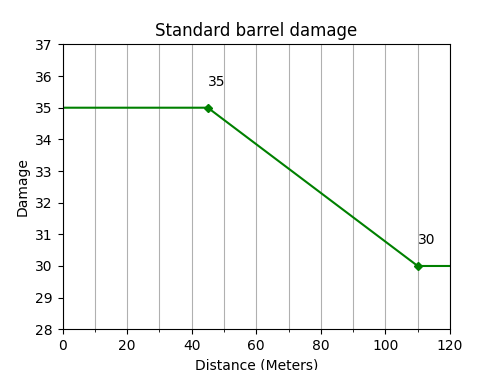
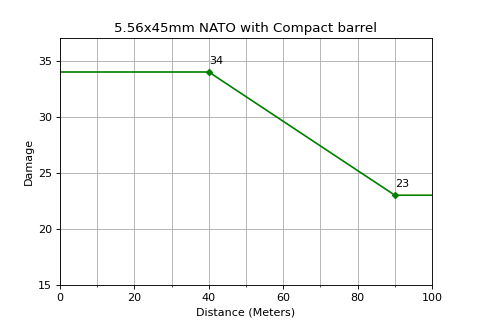
ttk calculator finished and working

diff --git a/main.py b/main.py
@@ -1,4 +1,5 @@
-import graph_maker
+from graph_maker import get_graph_figure
+from damage_calculator import calculate_damage
 from tkinter import *
 import json
 import gun
@@ -7,6 +8,10 @@ from functools import partial
 from matplotlib.backends.backend_tkagg import FigureCanvasTkAgg
 import matplotlib.pyplot as plt
 from PIL import Image,ImageTk
+import math
+
+current_ammo_config = []
+current_gun = None
 
 def load_data(filename:str, Class) -> list:
     list = []
@@ -27,7 +32,7 @@ def __launch_app():
 
     # Create object
     root = Tk()
-    root.geometry( "500x800" )
+    root.geometry( "500x700" )
     root.title('WW3 Stats Utility')
 
     selected_gun = StringVar(root)
@@ -36,43 +41,110 @@ def __launch_app():
     # Create a dropdown menu
     gun_options = [gun.fullname for gun in guns]
     dropdown_guns = OptionMenu(root, selected_gun, *gun_options)
-    dropdown_guns.pack()
+    dropdown_guns.config(width=20)
+    dropdown_guns.grid(row = 0, column = 0, columnspan = 4, rowspan = 1, padx = 150, pady = 5)
 
-    gun_title_label = Label(text = "", font=("Arial", 15))
+    gun_title_label = Label(text = "Select a gun", font=("Arial", 15))
     gun_realname_label = Label(text = "", font=("Arial", 8), fg="green")
-    gun_weight_label = Label(text = "", font=("Arial", 11))
-    gun_firerate_label = Label(text = "", font=("Arial", 11))
-    gun_caliber_label = Label(text = "", font=("Arial", 11))
+    gun_weight_label = Label(text = "Weight:", font=("Arial", 11), anchor="w" )
+    gun_firerate_label = Label(text = "Fire rate:", font=("Arial", 11), anchor="w")
+    gun_caliber_label = Label(text = "Caliber:", font=("Arial", 11), anchor="w")
 
-    gun_title_label.pack()
-    gun_realname_label.pack()
-    gun_weight_label.pack()
-    gun_firerate_label.pack()
-    gun_caliber_label.pack(pady=1)
+    gun_title_label.grid(row = 1, column = 0, columnspan = 4, rowspan = 1)
+    gun_realname_label.grid(row = 2, column = 0, columnspan = 4, rowspan = 1)
+    gun_weight_label.grid(row = 3, column = 0, columnspan = 2, rowspan = 1, sticky = W, padx = (100,0)) 
+    gun_firerate_label.grid(row = 4, column = 0, columnspan = 2, rowspan = 1, sticky = W, padx = (100,0))
+    gun_caliber_label.grid(row = 5, column = 0, columnspan = 2, rowspan = 1, sticky = W, padx = (100,0))
 
-    selected_barrel = StringVar(root)
-    selected_barrel.set("")
+    gun_weight_text = Label(text = "", font=("Arial", 11), anchor="e")
+    gun_firerate_text = Label(text = "", font=("Arial", 11), anchor="e")
+    gun_caliber_text = Label(text = "", font=("Arial", 11), anchor="e")
 
-    dropdown_barrels = OptionMenu(root, selected_barrel, [])
+    gun_weight_text.grid(row = 3, column = 2, columnspan = 2, rowspan = 1, sticky = E, padx = (0,100))
+    gun_firerate_text.grid(row = 4, column = 2, columnspan = 2, rowspan = 1, sticky = E, padx = (0,100))
+    gun_caliber_text.grid(row = 5, column = 2, columnspan = 2, rowspan = 1, sticky = E, padx = (0,100))
+
     fig_canvas = Label()
     
+
+    #TTK Calculator elements init
+    label_ttk_title = Label(text = "TTK Calculator (Choose a gun and barrel)", font=("Arial", 15), anchor="w")
+    label_ttk_title.grid(row = 8, column = 0, columnspan = 4, rowspan = 1, pady = 3)
+
+    # TTK inputs init
+    Label(text = "Distance:", font=("Arial", 11), anchor="w").grid(row = 9, column = 0, columnspan = 1, rowspan = 1, sticky = E, padx = (120,0))
+    Label(text = "Region:", font=("Arial", 11), anchor="w").grid(row = 9, column = 2, columnspan = 1, rowspan = 1, sticky = W, padx = (0,0))
+
+    distance_input = Entry(root)
+    distance_input.config(width=5)
+    distance_input.grid(row = 9, column = 1, columnspan = 1, rowspan = 1,padx = (5,50))
+
+    selected_region = StringVar(root)
+    selected_region.set("Select region")
+
+    region_dropdown = OptionMenu(root, selected_region, *["Head","Torso/Arms","Legs","Feet"])
+    region_dropdown.config(width=10)
+    region_dropdown.grid(row = 9, column = 3, columnspan = 1, rowspan = 1,padx = (5,50))
+
+    # TTK texts init
+    Label(text = "Damage:", font=("Arial", 11), anchor="w").grid(row = 11, column = 0, columnspan = 1, rowspan = 1, sticky = W, padx = (80,0))
+    Label(text = "DPS:", font=("Arial", 11), anchor="w").grid(row = 11, column = 2, columnspan = 1, rowspan = 1, sticky = W, padx = (0,0))
+    Label(text = "STK:", font=("Arial", 11), anchor="w").grid(row = 12, column = 0, columnspan = 1, rowspan = 1, sticky = W, padx = (80,0))
+    Label(text = "TTK:", font=("Arial", 11), anchor="w").grid(row = 12, column = 2, columnspan = 1, rowspan = 1, sticky = W, padx = (0,0))
+
+    Label(text = "Licensed under GNU General Public License v3.0", font=("Arial italic", 9), anchor="w").grid(row = 13, column = 0, columnspan = 4, rowspan = 1, pady = 5)
+
+    text_ttk_dmg = Label(text = "", font=("Arial", 11), anchor="e")
+    text_ttk_dmg.grid(row = 11, column = 1, columnspan = 1, rowspan = 1, sticky = E, padx = (0,10))
+
+    text_ttk_dps = Label(text = "", font=("Arial", 11), anchor="e")
+    text_ttk_dps.grid(row = 11, column = 3, columnspan = 1, rowspan = 1, sticky = E, padx = (0,80))
+
+    text_ttk_stk = Label(text = "", font=("Arial", 11), anchor="e")
+    text_ttk_stk.grid(row = 12, column = 1, columnspan = 1, rowspan = 1, sticky = E, padx = (0,10))
+
+    text_ttk_ttk = Label(text = "", font=("Arial", 11), anchor="e")
+    text_ttk_ttk.grid(row = 12, column = 3, columnspan = 1, rowspan = 1, sticky = E, padx = (0,80))
+
     
+        
 
     def show_gun_info(gun_selection, *args):
-        # Retrieve the data for the selected table
-        fig_canvas.pack_forget()
+        label_ttk_title.config(text= "TTK Calculator (Choose a barrel)") 
+        text_ttk_dmg.config(text="")
+        text_ttk_dps.config(text="")
+        text_ttk_stk.config(text="")
+        text_ttk_ttk.config(text="")
+
+        global current_ammo_config
+        current_ammo_config = []
+
+        # Forget graph canvas
+        fig_canvas.grid_forget()
+
+        #Forget TTK button
+
         gun = next(gun for gun in guns if gun.fullname == gun_selection.get())
         ammo = next(ammo for ammo in calibers if ammo.shortname == gun.caliber)
 
+        global current_gun
+        current_gun = gun
+
         gun_title_label.config(text=gun.fullname + " - " + gun.type.value)
         if(gun.fullname.lower() != gun.realname.lower()):
-            gun_realname_label.config(text="Real name: " + gun.realname)
+            gun_realname_label.config(text="" + gun.realname)
         else:
             gun_realname_label.config(text="")
 
-        gun_weight_label.config(text="Weight: " + str(gun.weight) + " units")
-        gun_firerate_label.config(text="Fire rate: " + str(gun.rof) + " (" + gun.firemode.value + ")")
-        gun_caliber_label.config(text="Caliber: " + ammo.name)
+        str_weight = ""
+        for i in range(int(gun.weight)):
+            if i%4==0:
+                str_weight = str_weight + " "
+            str_weight = str_weight + "*"
+        
+        gun_weight_text.config(text= str_weight + " (" + str(gun.weight) + ")")
+        gun_firerate_text.config(text="" + str(gun.rof) + " (" + gun.firemode.value + ")")
+        gun_caliber_text.config(text="" + ammo.name)
 
         # Create a dropdown menu 
         barrel_options = ["Standard"]
@@ -80,43 +152,77 @@ def __launch_app():
             barrel_options.append("Compact")
         if ammo.marksman:
             barrel_options.append("Marksman")
-        
-        dropdown_barrels.pack(pady=1)
-        menu = dropdown_barrels.children["menu"]
-        menu.delete(0, "end")
 
+        selected_barrel = StringVar(root)
+        dropdown_barrels = OptionMenu(root, selected_barrel, *barrel_options)
+        dropdown_barrels.config(width=15)
         selected_barrel.set("Choose a barrel...")
-        for option in barrel_options:
-            menu.add_command(label=option, command=partial(show_ballistic_info, option, ammo))
+        dropdown_barrels.grid(row = 6, column = 0, columnspan = 4, rowspan = 1, pady = 2)
+        selected_barrel.trace('w', partial(show_ballistic_info, selected_barrel, ammo))
 
-        
 
     def show_ballistic_info(barrel_selection, ammo, *args):
-        selected_barrel.set(barrel_selection)
+        
+        text_ttk_dmg.config(text="")
+        text_ttk_dps.config(text="")
+        text_ttk_stk.config(text="")
+        text_ttk_ttk.config(text="")
+
+        global current_ammo_config
+        current_ammo_config = []
+        label_ttk_title.config(text= "TTK Calculator") 
+
         ammo_stats = []
-        title = barrel_selection + " barrel damage"
-        if barrel_selection == "Standard":
+        title = ammo.name + " with " + barrel_selection.get() + " barrel"
+        if barrel_selection.get() == "Standard":
             ammo_stats = ammo.standard
-        elif barrel_selection == "Compact":
+        elif barrel_selection.get() == "Compact":
             ammo_stats =  ammo.compact
-        elif barrel_selection == "Marksman":
+        elif barrel_selection.get() == "Marksman":
             ammo_stats = ammo.marksman
         
-        
-        figure = graph_maker.get_graph_figure(ammo_stats, title, "green")
+        current_ammo_config = ammo_stats
+
+        figure = get_graph_figure(ammo_stats, title, "green")
 
         figure.savefig("figure.png", transparent=True)
         img = ImageTk.PhotoImage(Image.open("figure.png"))
         
         fig_canvas.config(image=img)
         fig_canvas.image = img
-        fig_canvas.pack()
+        fig_canvas.grid(row = 7, column = 0, columnspan = 4, rowspan = 1, pady = 2)
         
+        #TTK calculator elements
         
 
+    def calculate_ttk():
+        global current_gun
+
+        text_ttk_dmg.config(text="")
+        text_ttk_dps.config(text="")
+        text_ttk_stk.config(text="")
+        text_ttk_ttk.config(text="")
+        
+        if current_ammo_config and distance_input.get().isdigit() and selected_region.get() in ["Head","Torso/Arms","Legs","Feet"]:
+            distance = int(distance_input.get())
+            if distance >=0:
+                damage = calculate_damage(current_ammo_config,distance, selected_region.get())
+                rps = current_gun.rof/60
+                dps = round(damage*(rps))
+                stk = math.ceil(100/damage)
+                ttk = round(((stk-1)/rps)*1000)
+
+                text_ttk_dmg.config(text=str(damage))
+                text_ttk_dps.config(text=str(dps))
+                text_ttk_stk.config(text=str(stk))
+                text_ttk_ttk.config(text=str(ttk) + "ms")
+            
 
     # Call the show_table function whenever the user selects a different table from the dropdown
     selected_gun.trace('w', partial(show_gun_info, selected_gun))
+
+    ttk_button = Button(root, text = 'Calculate', bd = '2', command = calculate_ttk)
+    ttk_button.grid(row = 10, column = 0, columnspan = 4, rowspan = 1, pady = 2)
 
     # Start the event loop
     root.mainloop()

diff --git a/damage_calculator.py b/damage_calculator.py
@@ -1,0 +1,28 @@
+from scipy.interpolate import interp1d
+import numpy as np
+
+
+def calculate_damage(ammo_data: list, distance:int, region:str) -> int:
+    
+    distances, damages = zip(*ammo_data)
+
+    if distance <= distances[0]:
+        return damages[0]
+    elif distance >= distances[-1]:
+        return damages[-1]
+
+    function = interp1d(distances, damages, kind='linear')
+
+    raw_damage = function(distance)
+    #"Head","Torso/Arms","Legs","Feet"
+
+    if region == "Head":
+        raw_damage = raw_damage*2
+    elif region == "Legs":
+        raw_damage = raw_damage*0.67
+    elif region == "Feet":
+        raw_damage = raw_damage*0.57
+
+    damage = int(np.round(raw_damage))
+
+    return damage
